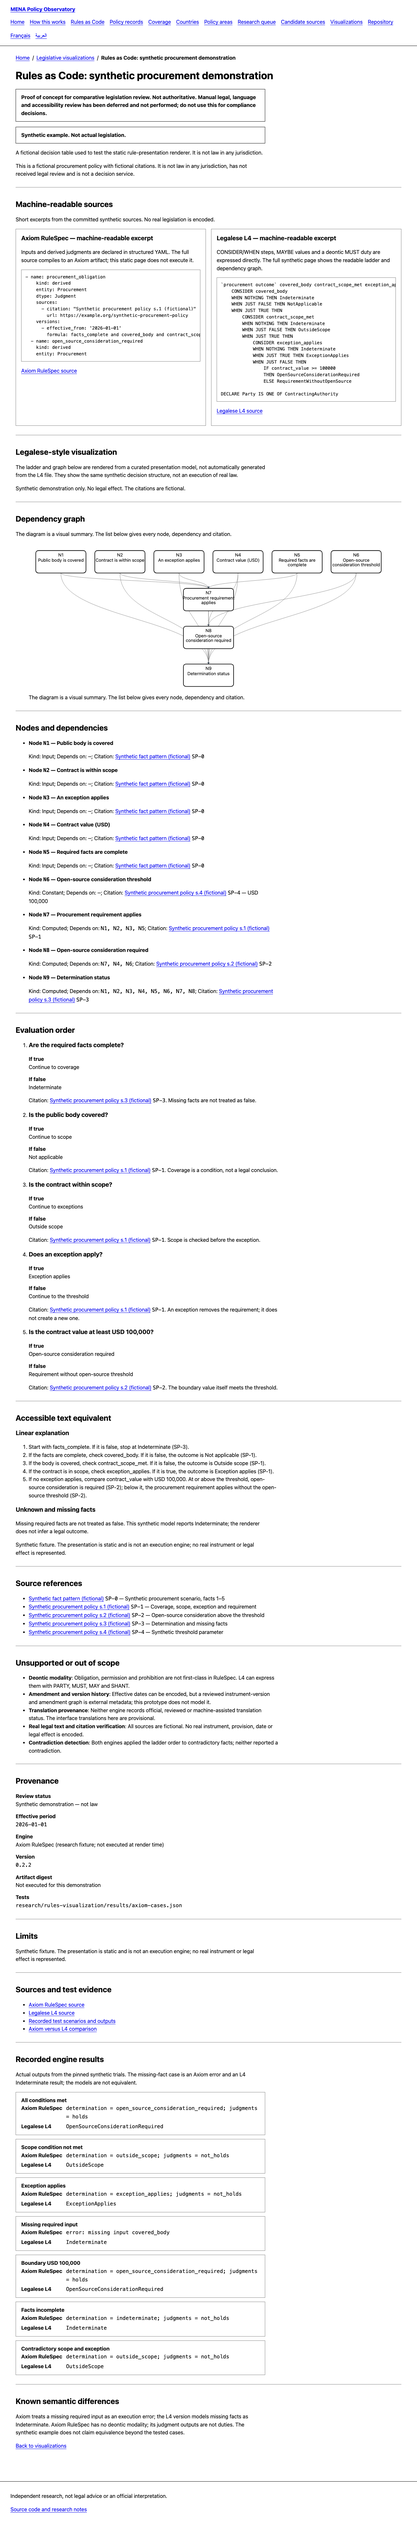
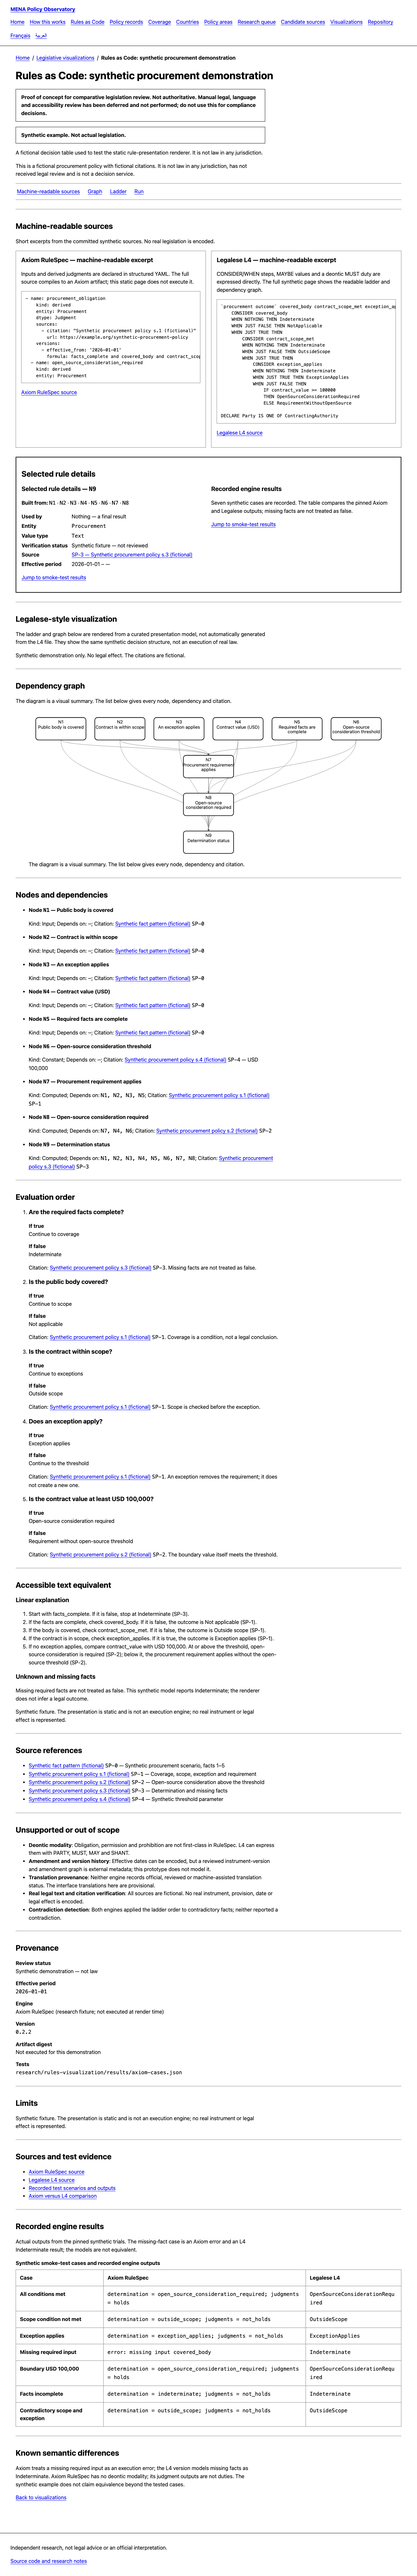
Align synthetic rule workspace with Axiom patterns
- Add a static workbench navigation strip for machine-readable sources,
  graph, ladder and run views.
- Add a selected-rule inspector for N9 with built-from/used-by, entity,
  value type, verification status, source and effective period.
- Replace the output list with a captioned smoke-test table comparing the
  pinned Axiom and Legalese results.
- Document the Axiom Graph/Read/Relationships/Run pattern as a design
  reference, not an integration or endorsement.
- Fix axe duplicate-region labels and 320 px inspector overflow discovered
  by the accessibility suite.
- Add inspector screenshot and update tests/docs.

Still synthetic only. No engine runs in the browser, no real instrument is
encoded, no legal effect is asserted.

Verification: 336 tests, 15 toolkit tests, 190 pages, 578 Playwright/axe
checks, registry/instruments/import/manifest current, git diff check clean.

diff --git a/dist/mena/ar/visualizations/synthetic.html b/dist/mena/ar/visualizations/synthetic.html
@@ -42,6 +42,7 @@
 <p class="notice"><strong>مثال اصطناعي. ليس تشريعًا حقيقيًا.</strong></p>
 <p>جدول قرار خيالي لاختبار عارض عرض القواعد الساكن. وهو ليس قانونًا في أي ولاية قضائية.</p>
 <p>هذه سياسة شراء خيالية باستشهادات خيالية. وليست قانونًا في أي ولاية، ولم تخضع لمراجعة قانونية، وليست خدمة قرار.</p>
+<nav class="workbench-nav" aria-label="أقسام مساحة القواعد"><ul><li><a href="#rules-machine-h">مصادر قابلة للقراءة الآلية</a></li><li><a href="#rule-graph-h">الرسم</a></li><li><a href="#rule-ladder-h">سلسلة القرار</a></li><li><a href="#synthetic-results-h">التشغيل</a></li></ul></nav>
 <section aria-labelledby="rules-machine-h"><h2 id="rules-machine-h">مصادر قابلة للقراءة الآلية</h2><p>مقتطفات قصيرة من المصادر الاصطناعية المحفوظة. لا يوجد تشريع حقيقي مرمّز.</p><div class="code-grid"><article class="code-card"><h3>أكسيوم — مقتطف قابل للقراءة الآلية</h3><p>تُعلن المدخلات والأحكام المشتقة في بيانات منظمة. يُجمّع المصدر الكامل إلى أثر لأكسيوم، ولا تنفذه هذه الصفحة الساكنة.</p><div class="code-scroll" role="region" aria-label="أكسيوم — مقتطف قابل للقراءة الآلية" tabindex="0"><pre><code lang="en" dir="ltr">- name: procurement_obligation
     kind: derived
     entity: Procurement
@@ -72,6 +73,7 @@
                 ELSE RequirementWithoutOpenSource
 
 DECLARE Party IS ONE OF ContractingAuthority</code></pre></div><p><a href="https://github.com/mgifford/mena-policy-observatory/blob/main/research/rules-visualization/l4/procurement.l4">مصدر قاعدة إل 4</a></p></article></div></section>
+<section class="rule-inspector" aria-labelledby="rule-inspector-h"><h2 id="rule-inspector-h">تفاصيل القاعدة المختارة</h2><div class="inspector-grid"><div><h3>تفاصيل القاعدة المختارة — <code lang="en" dir="ltr">N9</code></h3><p><strong>مبنية من:</strong> <code lang="en" dir="ltr">N1</code> · <code lang="en" dir="ltr">N2</code> · <code lang="en" dir="ltr">N3</code> · <code lang="en" dir="ltr">N4</code> · <code lang="en" dir="ltr">N5</code> · <code lang="en" dir="ltr">N6</code> · <code lang="en" dir="ltr">N7</code> · <code lang="en" dir="ltr">N8</code></p><dl><dt>تُستخدم بواسطة</dt><dd>لا شيء — نتيجة نهائية</dd><dt>الكيان</dt><dd><code lang="en" dir="ltr">Procurement</code></dd><dt>نوع القيمة</dt><dd><code lang="en" dir="ltr">Text</code></dd><dt>حالة التحقق</dt><dd>نموذج اصطناعي — لم تتم مراجعته</dd><dt>المصدر</dt><dd><a href="https://example.org/synthetic-procurement-policy#s3">SP-3 — سياسة الشراء الاصطناعية، المادة 3 (خيالية)</a></dd><dt>فترة النفاذ</dt><dd><span lang="en" dir="ltr">2026-01-01 – —</span></dd></dl><p><a href="#synthetic-results-h">انتقل إلى نتائج الاختبار</a></p></div><div><h3>نتائج المحركين المسجلة</h3><p>سُجلت سبع حالات اصطناعية. يقارن الجدول مخرجات أكسيوم وليغاليز المثبتة؛ ولا تُعامل الوقائع الناقصة على أنها خاطئة.</p><p><a href="#synthetic-results-h">انتقل إلى نتائج الاختبار</a></p></div></div></section>
 <section id="legalese-visualization" aria-labelledby="legalese-visual-h"><h2 id="legalese-visual-h">تصور على نمط ليغاليز</h2><p>تُعرض سلسلة القرار والرسم أدناه من نموذج عرض منظم، وليس من ملف ليغاليز آليًا. وهي تعرض بنية القرار الاصطناعية نفسها، لا تنفيذًا لقانون حقيقي.</p>
 <p class="disclaimer">عرض اصطناعي فقط. لا أثر قانوني. الاستشهادات خيالية.</p>
 
@@ -136,7 +138,7 @@ DECLARE Party IS ONE OF ContractingAuthority</code></pre></div><p><a href="https
   </section>
 </section>
 <section aria-labelledby="synthetic-evidence-h"><h2 id="synthetic-evidence-h">المصادر وأدلة الاختبار</h2><ul><li><a href="https://github.com/mgifford/mena-policy-observatory/blob/main/research/rules-visualization/axiom/procurement.rulespec.yaml">مصدر قاعدة أكسيوم</a></li><li><a href="https://github.com/mgifford/mena-policy-observatory/blob/main/research/rules-visualization/l4/procurement.l4">مصدر قاعدة إل 4</a></li><li><a href="https://github.com/mgifford/mena-policy-observatory/blob/main/research/rules-visualization/results/axiom-cases.json">سيناريوهات الاختبار والمخرجات المسجلة</a></li><li><a href="https://github.com/mgifford/mena-policy-observatory/blob/main/docs/RULES-ENGINE-COMPARISON.md">مقارنة أكسيوم وإل 4</a></li></ul></section>
-<section aria-labelledby="synthetic-results-h"><h2 id="synthetic-results-h">نتائج المحركين المسجلة</h2><p>مخرجات فعلية من التجارب الاصطناعية المثبتة. حالة الوقائع الناقصة خطأ في أكسيوم ونتيجة غير محددة في إل 4؛ والنموذجان غير متكافئين.</p><ul class="synthetic-results"><li><strong lang="en" dir="ltr">All conditions met</strong><dl><dt>قاعدة أكسيوم</dt><dd><code lang="en" dir="ltr">determination = open_source_consideration_required; judgments = holds</code></dd><dt>إل 4</dt><dd><code lang="en" dir="ltr">OpenSourceConsiderationRequired</code></dd></dl></li><li><strong lang="en" dir="ltr">Scope condition not met</strong><dl><dt>قاعدة أكسيوم</dt><dd><code lang="en" dir="ltr">determination = outside_scope; judgments = not_holds</code></dd><dt>إل 4</dt><dd><code lang="en" dir="ltr">OutsideScope</code></dd></dl></li><li><strong lang="en" dir="ltr">Exception applies</strong><dl><dt>قاعدة أكسيوم</dt><dd><code lang="en" dir="ltr">determination = exception_applies; judgments = not_holds</code></dd><dt>إل 4</dt><dd><code lang="en" dir="ltr">ExceptionApplies</code></dd></dl></li><li><strong lang="en" dir="ltr">Missing required input</strong><dl><dt>قاعدة أكسيوم</dt><dd><code lang="en" dir="ltr">error: missing input covered_body</code></dd><dt>إل 4</dt><dd><code lang="en" dir="ltr">Indeterminate</code></dd></dl></li><li><strong lang="en" dir="ltr">Boundary USD 100,000</strong><dl><dt>قاعدة أكسيوم</dt><dd><code lang="en" dir="ltr">determination = open_source_consideration_required; judgments = holds</code></dd><dt>إل 4</dt><dd><code lang="en" dir="ltr">OpenSourceConsiderationRequired</code></dd></dl></li><li><strong lang="en" dir="ltr">Facts incomplete</strong><dl><dt>قاعدة أكسيوم</dt><dd><code lang="en" dir="ltr">determination = indeterminate; judgments = not_holds</code></dd><dt>إل 4</dt><dd><code lang="en" dir="ltr">Indeterminate</code></dd></dl></li><li><strong lang="en" dir="ltr">Contradictory scope and exception</strong><dl><dt>قاعدة أكسيوم</dt><dd><code lang="en" dir="ltr">determination = outside_scope; judgments = not_holds</code></dd><dt>إل 4</dt><dd><code lang="en" dir="ltr">OutsideScope</code></dd></dl></li></ul></section>
+<section aria-labelledby="synthetic-results-h"><h2 id="synthetic-results-h">نتائج المحركين المسجلة</h2><p>مخرجات فعلية من التجارب الاصطناعية المثبتة. حالة الوقائع الناقصة خطأ في أكسيوم ونتيجة غير محددة في إل 4؛ والنموذجان غير متكافئين.</p><div class="table-scroll" role="region" aria-label="حالات اختبار اصطناعية ومخرجات المحركات المسجلة" tabindex="0"><table><caption>حالات اختبار اصطناعية ومخرجات المحركات المسجلة</caption><thead><tr><th scope="col">الحالة</th><th scope="col">قاعدة أكسيوم</th><th scope="col">إل 4</th></tr></thead><tbody><tr><th scope="row" lang="en" dir="ltr">All conditions met</th><td><code lang="en" dir="ltr">determination = open_source_consideration_required; judgments = holds</code></td><td><code lang="en" dir="ltr">OpenSourceConsiderationRequired</code></td></tr><tr><th scope="row" lang="en" dir="ltr">Scope condition not met</th><td><code lang="en" dir="ltr">determination = outside_scope; judgments = not_holds</code></td><td><code lang="en" dir="ltr">OutsideScope</code></td></tr><tr><th scope="row" lang="en" dir="ltr">Exception applies</th><td><code lang="en" dir="ltr">determination = exception_applies; judgments = not_holds</code></td><td><code lang="en" dir="ltr">ExceptionApplies</code></td></tr><tr><th scope="row" lang="en" dir="ltr">Missing required input</th><td><code lang="en" dir="ltr">error: missing input covered_body</code></td><td><code lang="en" dir="ltr">Indeterminate</code></td></tr><tr><th scope="row" lang="en" dir="ltr">Boundary USD 100,000</th><td><code lang="en" dir="ltr">determination = open_source_consideration_required; judgments = holds</code></td><td><code lang="en" dir="ltr">OpenSourceConsiderationRequired</code></td></tr><tr><th scope="row" lang="en" dir="ltr">Facts incomplete</th><td><code lang="en" dir="ltr">determination = indeterminate; judgments = not_holds</code></td><td><code lang="en" dir="ltr">Indeterminate</code></td></tr><tr><th scope="row" lang="en" dir="ltr">Contradictory scope and exception</th><td><code lang="en" dir="ltr">determination = outside_scope; judgments = not_holds</code></td><td><code lang="en" dir="ltr">OutsideScope</code></td></tr></tbody></table></div></section>
 <section aria-labelledby="synthetic-semantics-h"><h2 id="synthetic-semantics-h">الفروق الدلالية المعروفة</h2><p>يعامل أكسيوم المدخل المطلوب الناقص كخطأ تنفيذ؛ ويعرض إصدار إل 4 الوقائع الناقصة على أنها غير محددة. ولا توجد في قاعدة أكسيوم جهة إلزامية؛ وأحكامها ليست واجبات. ولا يدعي المثال الاصطناعي التكافؤ خارج الحالات المختبرة.</p></section>
 <p><a href="index.html">العودة إلى العروض</a></p>
 </main>

diff --git a/dist/mena/fr/visualizations/synthetic.html b/dist/mena/fr/visualizations/synthetic.html
@@ -42,6 +42,7 @@
 <p class="notice"><strong>Exemple synthétique. Ne constitue pas une législation réelle.</strong></p>
 <p>Une table de décision fictive servant à tester le moteur de présentation statique. Elle n&#x27;est du droit d&#x27;aucune juridiction.</p>
 <p>Il s&#x27;agit d&#x27;une politique de passation fictive avec des citations fictives. Elle n&#x27;est du droit d&#x27;aucune juridiction, n&#x27;a pas été révisée juridiquement et n&#x27;est pas un service de décision.</p>
+<nav class="workbench-nav" aria-label="Sections de l’atelier de règles"><ul><li><a href="#rules-machine-h">Sources lisibles par machine</a></li><li><a href="#rule-graph-h">Graphe</a></li><li><a href="#rule-ladder-h">Échelle</a></li><li><a href="#synthetic-results-h">Exécution</a></li></ul></nav>
 <section aria-labelledby="rules-machine-h"><h2 id="rules-machine-h">Sources lisibles par machine</h2><p>Courts extraits des sources synthétiques du dépôt. Aucune législation réelle n’est encodée.</p><div class="code-grid"><article class="code-card"><h3>Axiom RuleSpec — extrait lisible par machine</h3><p>Les entrées et jugements dérivés sont déclarés en YAML structuré. La source complète se compile en artefact Axiom ; cette page statique ne l&#x27;exécute pas.</p><div class="code-scroll" role="region" aria-label="Axiom RuleSpec — extrait lisible par machine" tabindex="0"><pre><code lang="en" dir="ltr">- name: procurement_obligation
     kind: derived
     entity: Procurement
@@ -72,6 +73,7 @@
                 ELSE RequirementWithoutOpenSource
 
 DECLARE Party IS ONE OF ContractingAuthority</code></pre></div><p><a href="https://github.com/mgifford/mena-policy-observatory/blob/main/research/rules-visualization/l4/procurement.l4">Source Legalese L4</a></p></article></div></section>
+<section class="rule-inspector" aria-labelledby="rule-inspector-h"><h2 id="rule-inspector-h">Détails de la règle sélectionnée</h2><div class="inspector-grid"><div><h3>Détails de la règle sélectionnée — <code lang="en" dir="ltr">N9</code></h3><p><strong>Construite à partir de:</strong> <code lang="en" dir="ltr">N1</code> · <code lang="en" dir="ltr">N2</code> · <code lang="en" dir="ltr">N3</code> · <code lang="en" dir="ltr">N4</code> · <code lang="en" dir="ltr">N5</code> · <code lang="en" dir="ltr">N6</code> · <code lang="en" dir="ltr">N7</code> · <code lang="en" dir="ltr">N8</code></p><dl><dt>Utilisée par</dt><dd>Rien — résultat final</dd><dt>Entité</dt><dd><code lang="en" dir="ltr">Procurement</code></dd><dt>Type de valeur</dt><dd><code lang="en" dir="ltr">Text</code></dd><dt>État de vérification</dt><dd>Fixture synthétique — non revue</dd><dt>Source</dt><dd><a href="https://example.org/synthetic-procurement-policy#s3">SP-3 — Politique de passation synthétique, art. 3 (fictif)</a></dd><dt>Période d’effet</dt><dd><span lang="en" dir="ltr">2026-01-01 – —</span></dd></dl><p><a href="#synthetic-results-h">Aller aux résultats des tests</a></p></div><div><h3>Résultats réels des moteurs</h3><p>Sept cas synthétiques sont consignés. Le tableau compare les sorties épinglées d’Axiom et de Legalese ; les faits manquants ne sont pas traités comme faux.</p><p><a href="#synthetic-results-h">Aller aux résultats des tests</a></p></div></div></section>
 <section id="legalese-visualization" aria-labelledby="legalese-visual-h"><h2 id="legalese-visual-h">Visualisation de style Legalese</h2><p>L&#x27;échelle et le graphe ci-dessous sont rendus depuis un modèle de présentation organisé, non générés automatiquement à partir du fichier L4. Ils montrent la même structure de décision synthétique, non une exécution du droit réel.</p>
 <p class="disclaimer">Démonstration synthétique uniquement. Sans effet juridique. Les citations sont fictives.</p>
 
@@ -136,7 +138,7 @@ DECLARE Party IS ONE OF ContractingAuthority</code></pre></div><p><a href="https
   </section>
 </section>
 <section aria-labelledby="synthetic-evidence-h"><h2 id="synthetic-evidence-h">Sources et preuves de test</h2><ul><li><a href="https://github.com/mgifford/mena-policy-observatory/blob/main/research/rules-visualization/axiom/procurement.rulespec.yaml">Source RuleSpec Axiom</a></li><li><a href="https://github.com/mgifford/mena-policy-observatory/blob/main/research/rules-visualization/l4/procurement.l4">Source Legalese L4</a></li><li><a href="https://github.com/mgifford/mena-policy-observatory/blob/main/research/rules-visualization/results/axiom-cases.json">Scénarios et sorties de test consignés</a></li><li><a href="https://github.com/mgifford/mena-policy-observatory/blob/main/docs/RULES-ENGINE-COMPARISON.md">Comparaison Axiom / L4</a></li></ul></section>
-<section aria-labelledby="synthetic-results-h"><h2 id="synthetic-results-h">Résultats réels des moteurs</h2><p>Sorties réelles des essais synthétiques épinglés. Le cas de fait manquant est une erreur Axiom et un résultat Indéterminé L4 ; les modèles ne sont pas équivalents.</p><ul class="synthetic-results"><li><strong lang="en" dir="ltr">All conditions met</strong><dl><dt>Axiom RuleSpec</dt><dd><code lang="en" dir="ltr">determination = open_source_consideration_required; judgments = holds</code></dd><dt>Legalese L4</dt><dd><code lang="en" dir="ltr">OpenSourceConsiderationRequired</code></dd></dl></li><li><strong lang="en" dir="ltr">Scope condition not met</strong><dl><dt>Axiom RuleSpec</dt><dd><code lang="en" dir="ltr">determination = outside_scope; judgments = not_holds</code></dd><dt>Legalese L4</dt><dd><code lang="en" dir="ltr">OutsideScope</code></dd></dl></li><li><strong lang="en" dir="ltr">Exception applies</strong><dl><dt>Axiom RuleSpec</dt><dd><code lang="en" dir="ltr">determination = exception_applies; judgments = not_holds</code></dd><dt>Legalese L4</dt><dd><code lang="en" dir="ltr">ExceptionApplies</code></dd></dl></li><li><strong lang="en" dir="ltr">Missing required input</strong><dl><dt>Axiom RuleSpec</dt><dd><code lang="en" dir="ltr">error: missing input covered_body</code></dd><dt>Legalese L4</dt><dd><code lang="en" dir="ltr">Indeterminate</code></dd></dl></li><li><strong lang="en" dir="ltr">Boundary USD 100,000</strong><dl><dt>Axiom RuleSpec</dt><dd><code lang="en" dir="ltr">determination = open_source_consideration_required; judgments = holds</code></dd><dt>Legalese L4</dt><dd><code lang="en" dir="ltr">OpenSourceConsiderationRequired</code></dd></dl></li><li><strong lang="en" dir="ltr">Facts incomplete</strong><dl><dt>Axiom RuleSpec</dt><dd><code lang="en" dir="ltr">determination = indeterminate; judgments = not_holds</code></dd><dt>Legalese L4</dt><dd><code lang="en" dir="ltr">Indeterminate</code></dd></dl></li><li><strong lang="en" dir="ltr">Contradictory scope and exception</strong><dl><dt>Axiom RuleSpec</dt><dd><code lang="en" dir="ltr">determination = outside_scope; judgments = not_holds</code></dd><dt>Legalese L4</dt><dd><code lang="en" dir="ltr">OutsideScope</code></dd></dl></li></ul></section>
+<section aria-labelledby="synthetic-results-h"><h2 id="synthetic-results-h">Résultats réels des moteurs</h2><p>Sorties réelles des essais synthétiques épinglés. Le cas de fait manquant est une erreur Axiom et un résultat Indéterminé L4 ; les modèles ne sont pas équivalents.</p><div class="table-scroll" role="region" aria-label="Cas de test synthétiques et sorties de moteur consignées" tabindex="0"><table><caption>Cas de test synthétiques et sorties de moteur consignées</caption><thead><tr><th scope="col">Cas</th><th scope="col">Axiom RuleSpec</th><th scope="col">Legalese L4</th></tr></thead><tbody><tr><th scope="row" lang="en" dir="ltr">All conditions met</th><td><code lang="en" dir="ltr">determination = open_source_consideration_required; judgments = holds</code></td><td><code lang="en" dir="ltr">OpenSourceConsiderationRequired</code></td></tr><tr><th scope="row" lang="en" dir="ltr">Scope condition not met</th><td><code lang="en" dir="ltr">determination = outside_scope; judgments = not_holds</code></td><td><code lang="en" dir="ltr">OutsideScope</code></td></tr><tr><th scope="row" lang="en" dir="ltr">Exception applies</th><td><code lang="en" dir="ltr">determination = exception_applies; judgments = not_holds</code></td><td><code lang="en" dir="ltr">ExceptionApplies</code></td></tr><tr><th scope="row" lang="en" dir="ltr">Missing required input</th><td><code lang="en" dir="ltr">error: missing input covered_body</code></td><td><code lang="en" dir="ltr">Indeterminate</code></td></tr><tr><th scope="row" lang="en" dir="ltr">Boundary USD 100,000</th><td><code lang="en" dir="ltr">determination = open_source_consideration_required; judgments = holds</code></td><td><code lang="en" dir="ltr">OpenSourceConsiderationRequired</code></td></tr><tr><th scope="row" lang="en" dir="ltr">Facts incomplete</th><td><code lang="en" dir="ltr">determination = indeterminate; judgments = not_holds</code></td><td><code lang="en" dir="ltr">Indeterminate</code></td></tr><tr><th scope="row" lang="en" dir="ltr">Contradictory scope and exception</th><td><code lang="en" dir="ltr">determination = outside_scope; judgments = not_holds</code></td><td><code lang="en" dir="ltr">OutsideScope</code></td></tr></tbody></table></div></section>
 <section aria-labelledby="synthetic-semantics-h"><h2 id="synthetic-semantics-h">Différences sémantiques connues</h2><p>Axiom traite une entrée requise manquante comme une erreur d&#x27;exécution ; la version L4 modélise les faits manquants comme Indéterminé. RuleSpec Axiom n&#x27;a pas de modalité déontique ; ses jugements ne sont pas des obligations. L&#x27;exemple synthétique ne revendique pas d&#x27;équivalence au-delà des cas testés.</p></section>
 <p><a href="index.html">Retour aux visualisations</a></p>
 </main>

diff --git a/dist/mena/en/visualizations/synthetic.html b/dist/mena/en/visualizations/synthetic.html
@@ -42,6 +42,7 @@
 <p class="notice"><strong>Synthetic example. Not actual legislation.</strong></p>
 <p>A fictional decision table used to test the static rule-presentation renderer. It is not law in any jurisdiction.</p>
 <p>This is a fictional procurement policy with fictional citations. It is not law in any jurisdiction, has not received legal review and is not a decision service.</p>
+<nav class="workbench-nav" aria-label="Rule workspace sections"><ul><li><a href="#rules-machine-h">Machine-readable sources</a></li><li><a href="#rule-graph-h">Graph</a></li><li><a href="#rule-ladder-h">Ladder</a></li><li><a href="#synthetic-results-h">Run</a></li></ul></nav>
 <section aria-labelledby="rules-machine-h"><h2 id="rules-machine-h">Machine-readable sources</h2><p>Short excerpts from the committed synthetic sources. No real legislation is encoded.</p><div class="code-grid"><article class="code-card"><h3>Axiom RuleSpec — machine-readable excerpt</h3><p>Inputs and derived judgments are declared in structured YAML. The full source compiles to an Axiom artifact; this static page does not execute it.</p><div class="code-scroll" role="region" aria-label="Axiom RuleSpec — machine-readable excerpt" tabindex="0"><pre><code lang="en" dir="ltr">- name: procurement_obligation
     kind: derived
     entity: Procurement
@@ -72,6 +73,7 @@
                 ELSE RequirementWithoutOpenSource
 
 DECLARE Party IS ONE OF ContractingAuthority</code></pre></div><p><a href="https://github.com/mgifford/mena-policy-observatory/blob/main/research/rules-visualization/l4/procurement.l4">Legalese L4 source</a></p></article></div></section>
+<section class="rule-inspector" aria-labelledby="rule-inspector-h"><h2 id="rule-inspector-h">Selected rule details</h2><div class="inspector-grid"><div><h3>Selected rule details — <code lang="en" dir="ltr">N9</code></h3><p><strong>Built from:</strong> <code lang="en" dir="ltr">N1</code> · <code lang="en" dir="ltr">N2</code> · <code lang="en" dir="ltr">N3</code> · <code lang="en" dir="ltr">N4</code> · <code lang="en" dir="ltr">N5</code> · <code lang="en" dir="ltr">N6</code> · <code lang="en" dir="ltr">N7</code> · <code lang="en" dir="ltr">N8</code></p><dl><dt>Used by</dt><dd>Nothing — a final result</dd><dt>Entity</dt><dd><code lang="en" dir="ltr">Procurement</code></dd><dt>Value type</dt><dd><code lang="en" dir="ltr">Text</code></dd><dt>Verification status</dt><dd>Synthetic fixture — not reviewed</dd><dt>Source</dt><dd><a href="https://example.org/synthetic-procurement-policy#s3">SP-3 — Synthetic procurement policy s.3 (fictional)</a></dd><dt>Effective period</dt><dd><span lang="en" dir="ltr">2026-01-01 – —</span></dd></dl><p><a href="#synthetic-results-h">Jump to smoke-test results</a></p></div><div><h3>Recorded engine results</h3><p>Seven synthetic cases are recorded. The table compares the pinned Axiom and Legalese outputs; missing facts are not treated as false.</p><p><a href="#synthetic-results-h">Jump to smoke-test results</a></p></div></div></section>
 <section id="legalese-visualization" aria-labelledby="legalese-visual-h"><h2 id="legalese-visual-h">Legalese-style visualization</h2><p>The ladder and graph below are rendered from a curated presentation model, not automatically generated from the L4 file. They show the same synthetic decision structure, not an execution of real law.</p>
 <p class="disclaimer">Synthetic demonstration only. No legal effect. The citations are fictional.</p>
 
@@ -136,7 +138,7 @@ DECLARE Party IS ONE OF ContractingAuthority</code></pre></div><p><a href="https
   </section>
 </section>
 <section aria-labelledby="synthetic-evidence-h"><h2 id="synthetic-evidence-h">Sources and test evidence</h2><ul><li><a href="https://github.com/mgifford/mena-policy-observatory/blob/main/research/rules-visualization/axiom/procurement.rulespec.yaml">Axiom RuleSpec source</a></li><li><a href="https://github.com/mgifford/mena-policy-observatory/blob/main/research/rules-visualization/l4/procurement.l4">Legalese L4 source</a></li><li><a href="https://github.com/mgifford/mena-policy-observatory/blob/main/research/rules-visualization/results/axiom-cases.json">Recorded test scenarios and outputs</a></li><li><a href="https://github.com/mgifford/mena-policy-observatory/blob/main/docs/RULES-ENGINE-COMPARISON.md">Axiom versus L4 comparison</a></li></ul></section>
-<section aria-labelledby="synthetic-results-h"><h2 id="synthetic-results-h">Recorded engine results</h2><p>Actual outputs from the pinned synthetic trials. The missing-fact case is an Axiom error and an L4 Indeterminate result; the models are not equivalent.</p><ul class="synthetic-results"><li><strong lang="en" dir="ltr">All conditions met</strong><dl><dt>Axiom RuleSpec</dt><dd><code lang="en" dir="ltr">determination = open_source_consideration_required; judgments = holds</code></dd><dt>Legalese L4</dt><dd><code lang="en" dir="ltr">OpenSourceConsiderationRequired</code></dd></dl></li><li><strong lang="en" dir="ltr">Scope condition not met</strong><dl><dt>Axiom RuleSpec</dt><dd><code lang="en" dir="ltr">determination = outside_scope; judgments = not_holds</code></dd><dt>Legalese L4</dt><dd><code lang="en" dir="ltr">OutsideScope</code></dd></dl></li><li><strong lang="en" dir="ltr">Exception applies</strong><dl><dt>Axiom RuleSpec</dt><dd><code lang="en" dir="ltr">determination = exception_applies; judgments = not_holds</code></dd><dt>Legalese L4</dt><dd><code lang="en" dir="ltr">ExceptionApplies</code></dd></dl></li><li><strong lang="en" dir="ltr">Missing required input</strong><dl><dt>Axiom RuleSpec</dt><dd><code lang="en" dir="ltr">error: missing input covered_body</code></dd><dt>Legalese L4</dt><dd><code lang="en" dir="ltr">Indeterminate</code></dd></dl></li><li><strong lang="en" dir="ltr">Boundary USD 100,000</strong><dl><dt>Axiom RuleSpec</dt><dd><code lang="en" dir="ltr">determination = open_source_consideration_required; judgments = holds</code></dd><dt>Legalese L4</dt><dd><code lang="en" dir="ltr">OpenSourceConsiderationRequired</code></dd></dl></li><li><strong lang="en" dir="ltr">Facts incomplete</strong><dl><dt>Axiom RuleSpec</dt><dd><code lang="en" dir="ltr">determination = indeterminate; judgments = not_holds</code></dd><dt>Legalese L4</dt><dd><code lang="en" dir="ltr">Indeterminate</code></dd></dl></li><li><strong lang="en" dir="ltr">Contradictory scope and exception</strong><dl><dt>Axiom RuleSpec</dt><dd><code lang="en" dir="ltr">determination = outside_scope; judgments = not_holds</code></dd><dt>Legalese L4</dt><dd><code lang="en" dir="ltr">OutsideScope</code></dd></dl></li></ul></section>
+<section aria-labelledby="synthetic-results-h"><h2 id="synthetic-results-h">Recorded engine results</h2><p>Actual outputs from the pinned synthetic trials. The missing-fact case is an Axiom error and an L4 Indeterminate result; the models are not equivalent.</p><div class="table-scroll" role="region" aria-label="Synthetic smoke-test cases and recorded engine outputs" tabindex="0"><table><caption>Synthetic smoke-test cases and recorded engine outputs</caption><thead><tr><th scope="col">Case</th><th scope="col">Axiom RuleSpec</th><th scope="col">Legalese L4</th></tr></thead><tbody><tr><th scope="row" lang="en" dir="ltr">All conditions met</th><td><code lang="en" dir="ltr">determination = open_source_consideration_required; judgments = holds</code></td><td><code lang="en" dir="ltr">OpenSourceConsiderationRequired</code></td></tr><tr><th scope="row" lang="en" dir="ltr">Scope condition not met</th><td><code lang="en" dir="ltr">determination = outside_scope; judgments = not_holds</code></td><td><code lang="en" dir="ltr">OutsideScope</code></td></tr><tr><th scope="row" lang="en" dir="ltr">Exception applies</th><td><code lang="en" dir="ltr">determination = exception_applies; judgments = not_holds</code></td><td><code lang="en" dir="ltr">ExceptionApplies</code></td></tr><tr><th scope="row" lang="en" dir="ltr">Missing required input</th><td><code lang="en" dir="ltr">error: missing input covered_body</code></td><td><code lang="en" dir="ltr">Indeterminate</code></td></tr><tr><th scope="row" lang="en" dir="ltr">Boundary USD 100,000</th><td><code lang="en" dir="ltr">determination = open_source_consideration_required; judgments = holds</code></td><td><code lang="en" dir="ltr">OpenSourceConsiderationRequired</code></td></tr><tr><th scope="row" lang="en" dir="ltr">Facts incomplete</th><td><code lang="en" dir="ltr">determination = indeterminate; judgments = not_holds</code></td><td><code lang="en" dir="ltr">Indeterminate</code></td></tr><tr><th scope="row" lang="en" dir="ltr">Contradictory scope and exception</th><td><code lang="en" dir="ltr">determination = outside_scope; judgments = not_holds</code></td><td><code lang="en" dir="ltr">OutsideScope</code></td></tr></tbody></table></div></section>
 <section aria-labelledby="synthetic-semantics-h"><h2 id="synthetic-semantics-h">Known semantic differences</h2><p>Axiom treats a missing required input as an execution error; the L4 version models missing facts as Indeterminate. Axiom RuleSpec has no deontic modality; its judgment outputs are not duties. The synthetic example does not claim equivalence beyond the tested cases.</p></section>
 <p><a href="index.html">Back to visualizations</a></p>
 </main>

diff --git a/dist/mena/assets/site.css b/dist/mena/assets/site.css
@@ -105,3 +105,14 @@ section.synthetic-card{border:3px solid CanvasText;padding:1rem;margin-block-sta
 .language-grid{display:flex;flex-wrap:wrap;gap:.75rem;list-style:none;margin:1rem 0;padding:0}
 .language-grid a{display:inline-block;border:1px solid CanvasText;padding:.5rem .9rem;color:LinkText;text-decoration:none}
 @media(max-width:40rem){.start-paths{grid-template-columns:1fr}}
+/* Rule workspace */
+.workbench-nav ul{display:flex;flex-wrap:wrap;gap:.4rem 1rem;list-style:none;margin:1rem 0;padding:0;border-block:1px solid GrayText;padding-block:.6rem}
+.workbench-nav a{display:inline-block;padding:.15rem .25rem}
+.workbench-nav a:focus-visible{outline:3px solid Highlight;outline-offset:3px}
+.rule-inspector{border:2px solid CanvasText;padding:1rem;margin-block-start:1.75rem}
+.inspector-grid{display:grid;grid-template-columns:repeat(auto-fit,minmax(18rem,1fr));gap:1rem}
+.inspector-grid h3{margin-block-start:0}
+.inspector-grid dl{display:grid;grid-template-columns:max-content minmax(0,1fr);gap:.25rem .75rem}
+.inspector-grid dt{font-weight:700;margin-block-start:0}
+@media(max-width:40rem){.inspector-grid dl{grid-template-columns:1fr}}
+@media(max-width:40rem){.inspector-grid{grid-template-columns:1fr}}

diff --git a/framework/site.css b/framework/site.css
@@ -105,3 +105,14 @@ section.synthetic-card{border:3px solid CanvasText;padding:1rem;margin-block-sta
 .language-grid{display:flex;flex-wrap:wrap;gap:.75rem;list-style:none;margin:1rem 0;padding:0}
 .language-grid a{display:inline-block;border:1px solid CanvasText;padding:.5rem .9rem;color:LinkText;text-decoration:none}
 @media(max-width:40rem){.start-paths{grid-template-columns:1fr}}
+/* Rule workspace */
+.workbench-nav ul{display:flex;flex-wrap:wrap;gap:.4rem 1rem;list-style:none;margin:1rem 0;padding:0;border-block:1px solid GrayText;padding-block:.6rem}
+.workbench-nav a{display:inline-block;padding:.15rem .25rem}
+.workbench-nav a:focus-visible{outline:3px solid Highlight;outline-offset:3px}
+.rule-inspector{border:2px solid CanvasText;padding:1rem;margin-block-start:1.75rem}
+.inspector-grid{display:grid;grid-template-columns:repeat(auto-fit,minmax(18rem,1fr));gap:1rem}
+.inspector-grid h3{margin-block-start:0}
+.inspector-grid dl{display:grid;grid-template-columns:max-content minmax(0,1fr);gap:.25rem .75rem}
+.inspector-grid dt{font-weight:700;margin-block-start:0}
+@media(max-width:40rem){.inspector-grid dl{grid-template-columns:1fr}}
+@media(max-width:40rem){.inspector-grid{grid-template-columns:1fr}}

diff --git a/framework/research_visualization.py b/framework/research_visualization.py
@@ -601,6 +601,13 @@ def index_body(strings: dict, lang: str, selected: list[tuple[dict, dict]]) -> s
 def synthetic_page_body(strings: dict, lang: str, fixture: dict, catalogues: dict) -> str:
     fragment = render_fragment(fixture, lang, catalogues[lang])
     excerpts = code_excerpts()
+    output_source = next(
+        (item for item in fixture.get('sources', []) if item.get('id') == 'SP-3'),
+        {'label': {}, 'url': 'https://example.org/synthetic-procurement-policy#s3'},
+    )
+    output_label = output_source.get('label', {})
+    output_label = output_label.get(lang) or output_label.get('en') or 'SP-3'
+    output_url = output_source.get('url', 'https://example.org/synthetic-procurement-policy#s3')
     axiom_url = ('https://github.com/mgifford/mena-policy-observatory/blob/main/'
                  'research/rules-visualization/axiom/procurement.rulespec.yaml')
     l4_url = ('https://github.com/mgifford/mena-policy-observatory/blob/main/'
@@ -621,6 +628,12 @@ def synthetic_page_body(strings: dict, lang: str, fixture: dict, catalogues: dic
         f'<p class="notice"><strong>{esc(strings["visualizations.synthetic_notice"])}</strong></p>',
         f'<p>{esc(fixture["summary"][lang])}</p>',
         f'<p>{esc(strings["visualizations.synthetic_demo_notice"])}</p>',
+        f'<nav class="workbench-nav" aria-label="{esc(strings["visualizations.workbench_label"])}"><ul>'
+        f'<li><a href="#rules-machine-h">{esc(strings["visualizations.workbench_machine"])}</a></li>'
+        f'<li><a href="#rule-graph-h">{esc(strings["visualizations.workbench_graph"])}</a></li>'
+        f'<li><a href="#rule-ladder-h">{esc(strings["visualizations.workbench_ladder"])}</a></li>'
+        f'<li><a href="#synthetic-results-h">{esc(strings["visualizations.workbench_run"])}</a></li>'
+        f'</ul></nav>',
         f'<section aria-labelledby="rules-machine-h"><h2 id="rules-machine-h">{esc(strings["visualizations.rules_machine_heading"])}</h2>'
         f'<p>{esc(strings["visualizations.code_excerpt_note"])}</p><div class="code-grid">'
         + code_card('visualizations.axiom_code_heading', 'visualizations.axiom_code_note',
@@ -628,6 +641,20 @@ def synthetic_page_body(strings: dict, lang: str, fixture: dict, catalogues: dic
         + code_card('visualizations.l4_code_heading', 'visualizations.l4_code_note',
                     excerpts['l4'], l4_url, 'visualizations.synthetic_source_l4')
         + '</div></section>',
+        f'<section class="rule-inspector" aria-labelledby="rule-inspector-h">'
+        f'<h2 id="rule-inspector-h">{esc(strings["visualizations.rule_inspector_heading"])}</h2>'
+        f'<div class="inspector-grid"><div><h3>{esc(strings["visualizations.rule_inspector_heading"])} — <code lang="en" dir="ltr">N9</code></h3>'
+        f'<p><strong>{esc(strings["visualizations.built_from"])}:</strong> '
+        f'{(" " + "·" + " ").join("<code lang=\"en\" dir=\"ltr\">" + esc(item) + "</code>" for item in ["N1","N2","N3","N4","N5","N6","N7","N8"])}</p>'
+        f'<dl><dt>{esc(strings["visualizations.used_by"])}</dt><dd>{esc(strings["visualizations.final_result"])}</dd>'
+        f'<dt>{esc(strings["visualizations.entity"])}</dt><dd><code lang="en" dir="ltr">Procurement</code></dd>'
+        f'<dt>{esc(strings["visualizations.value_type"])}</dt><dd><code lang="en" dir="ltr">Text</code></dd>'
+        f'<dt>{esc(strings["visualizations.verification_status"])}</dt><dd>{esc(strings["visualizations.synthetic_not_reviewed"])}</dd>'
+        f'<dt>{esc(strings["visualizations.source"])}</dt><dd><a href="{esc(output_url)}">SP-3 — {esc(output_label)}</a></dd>'
+        f'<dt>{esc(strings["visualizations.effective_period"])}</dt><dd><span lang="en" dir="ltr">2026-01-01 – —</span></dd></dl>'
+        f'<p><a href="#synthetic-results-h">{esc(strings["visualizations.jump_run"])}</a></p></div>'
+        f'<div><h3>{esc(strings["visualizations.synthetic_results_heading"])}</h3>'
+        f'<p>{esc(strings["visualizations.smoke_summary"])}</p><p><a href="#synthetic-results-h">{esc(strings["visualizations.jump_run"])}</a></p></div></div></section>',
         f'<section id="legalese-visualization" aria-labelledby="legalese-visual-h">'
         f'<h2 id="legalese-visual-h">{esc(strings["visualizations.legalese_visual_heading"])}</h2>'
         f'<p>{esc(strings["visualizations.legalese_visual_note"])}</p>',
@@ -642,9 +669,14 @@ def synthetic_page_body(strings: dict, lang: str, fixture: dict, catalogues: dic
         f'</ul></section>',
         f'<section aria-labelledby="synthetic-results-h"><h2 id="synthetic-results-h">{esc(strings["visualizations.synthetic_results_heading"])}</h2>'
         f'<p>{esc(strings["visualizations.synthetic_results_note"])}</p>'
-        f'<ul class="synthetic-results">'
-        + ''.join(_case_item(strings, case) for case in SYNTHETIC_CASES)
-        + '</ul></section>',
+        f'<div class="table-scroll" role="region" aria-label="{esc(strings["visualizations.smoke_caption"])}" tabindex="0">'
+        f'<table><caption>{esc(strings["visualizations.smoke_caption"])}</caption><thead><tr>'
+        f'<th scope="col">{esc(strings["visualizations.synthetic_case"])}</th>'
+        f'<th scope="col">{esc(strings["visualizations.synthetic_axiom"])}</th>'
+        f'<th scope="col">{esc(strings["visualizations.synthetic_l4"])}</th>'
+        f'</tr></thead><tbody>'
+        + ''.join(_case_row(case) for case in SYNTHETIC_CASES)
+        + '</tbody></table></div></section>',
         f'<section aria-labelledby="synthetic-semantics-h"><h2 id="synthetic-semantics-h">{esc(strings["visualizations.synthetic_semantics"])}</h2>'
         f'<p>{esc(strings["visualizations.synthetic_semantics_text"])}</p></section>',
         f'<p><a href="index.html">{esc(strings["visualizations.back"])}</a></p>',
@@ -662,10 +694,8 @@ SYNTHETIC_CASES = (
 )
 
 
-def _case_item(strings: dict, case: tuple[str, str, str]) -> str:
+def _case_row(case: tuple[str, str, str]) -> str:
     label, axiom, l4 = case
-    return (f'<li><strong lang="en" dir="ltr">{esc(label)}</strong>'
-            f'<dl><dt>{esc(strings["visualizations.synthetic_axiom"])}</dt>'
-            f'<dd><code lang="en" dir="ltr">{esc(axiom)}</code></dd>'
-            f'<dt>{esc(strings["visualizations.synthetic_l4"])}</dt>'
-            f'<dd><code lang="en" dir="ltr">{esc(l4)}</code></dd></dl></li>')
+    return (f'<tr><th scope="row" lang="en" dir="ltr">{esc(label)}</th>'
+            f'<td><code lang="en" dir="ltr">{esc(axiom)}</code></td>'
+            f'<td><code lang="en" dir="ltr">{esc(l4)}</code></td></tr>')

diff --git a/tests/test_research_visualization.py b/tests/test_research_visualization.py
@@ -218,6 +218,11 @@ class SourceStructureRenderTests(unittest.TestCase):
         self.assertIn(self.catalogues['en']['visualizations.synthetic_semantics_text'], body)
         self.assertIn(self.catalogues['en']['visualizations.rules_machine_heading'], body)
         self.assertIn(self.catalogues['en']['visualizations.legalese_visual_heading'], body)
+        self.assertIn(self.catalogues['en']['visualizations.rule_inspector_heading'], body)
+        self.assertIn(self.catalogues['en']['visualizations.workbench_label'], body)
+        self.assertIn(self.catalogues['en']['visualizations.smoke_caption'], body)
+        self.assertIn('id="rule-inspector-h"', body)
+        self.assertIn('<caption>', body)
         self.assertIn('procurement_obligation', body)
         self.assertIn('procurement outcome', body)
         self.assertIn('Dependency graph', body)

diff --git a/docs/RULES-ENGINE-COMPARISON.md b/docs/RULES-ENGINE-COMPARISON.md
@@ -56,6 +56,19 @@ Exact source links are in the source register at the end. Status vocabulary for 
 | 14. Testability and reproducibility | **S** — pinned source build, Cargo tests, compiled artifact, actual requests/responses committed. | **S** — `l4 check`, JSON run envelope and DOT trace committed; release binary provenance recorded. | **P** — tests exist, but the engine wrapper targets an older API and the app was not run. |
 | 15. Compatibility with research identifiers | **S** — durable IDs such as `xx:policies/procurement#procurement_obligation`. | **P** — names and `@ref` citations; no observatory instrument/source/version IDs. | **P** — parser emits its own Model JSON; no observatory IDs. |
 
+## Public Axiom workspace pattern
+
+The public [Axiom rule graph workspace](https://axiom.org/app?compose=us-wi%3Apolicies%2Fincome_tax%2F2026_form1es_estimated_schedule) organizes a rule around four views — **Graph**, **Read**, **Relationships** and **Run** — with a selected-rule inspector showing built-from/used-by links, entity, value type, verification status, source and effective dates.
+
+The synthetic page now adopts that information architecture as static HTML:
+
+- a workbench navigation strip with the same four entry points;
+- a selected-output inspector for `N9` with built-from, used-by, entity, value type, verification status, source and effective period;
+- the existing dependency graph and evaluation ladder;
+- a table of recorded smoke-test cases comparing Axiom and Legalese outputs.
+
+This is a design alignment, not an Axiom deployment. It does not copy Axiom's application code, does not run an engine in the browser, and does not imply integration or endorsement.
+
 ## Existing visualization approaches
 
 ### A. Axiom RuleSpec Graph Viewer
@@ -289,6 +302,7 @@ That is intentionally smaller than embedding either engine. It tests the durable
 - S4. Axiom WASM crate (documented, not tested): <https://github.com/TheAxiomFoundation/axiom-rules-engine/blob/d41d29d251b6eb0de6542f5899a93d317f3f0dcf/wasm/README.md>
 - S5. Axiom RuleSpec Graph Viewer (API/proxy, no bundled graph artifact): <https://github.com/TheAxiomFoundation/rulespec-graph-viewer/blob/880af3d8234f1eb8704bcab7f3e2fc8494556fba/README.md>
 - S6. Axiom licence (MIT): <https://github.com/TheAxiomFoundation/axiom-rules-engine/blob/d41d29d251b6eb0de6542f5899a93d317f3f0dcf/LICENSE>
+- S6b. Axiom public rule graph workspace (Graph/Read/Relationships/Run pattern): <https://axiom.org/app?compose=us-wi%3Apolicies%2Fincome_tax%2F2026_form1es_estimated_schedule>
 
 **Legalese L4**
 

diff --git a/README.md b/README.md
@@ -73,7 +73,7 @@ A navy-and-amber **M** favicon identifies the project in browser tabs. It is com
 
 ## Rules as Code
 
-The homepage now includes a visible **Rules as Code** section with short, exact excerpts from the synthetic Axiom RuleSpec and Legalese L4 sources, plus a three-step Legalese-style evaluation ladder. The full synthetic page adds the machine-readable sources, dependency graph, complete ladder, accessible text equivalent and recorded engine outputs. The navigation exposes **Rules as Code** on every page.
+The homepage now includes a visible **Rules as Code** section with short, exact excerpts from the synthetic Axiom RuleSpec and Legalese L4 sources, plus a three-step Legalese-style evaluation ladder. The full synthetic page follows the public Axiom workspace pattern — machine-readable sources, selected-rule inspector, dependency graph, ladder, smoke-test table and provenance — while remaining a static, synthetic example. The navigation exposes **Rules as Code** on every page.
 
 This is still synthetic only. No real instrument has an approved executable encoding, Axiom has not been selected as a permanent engine, and Axiom/L4 semantics are not interchangeable. See [docs/RULES-ENGINE-COMPARISON.md](docs/RULES-ENGINE-COMPARISON.md).
 

diff --git a/docs/VISUALIZATION-MILESTONE.md b/docs/VISUALIZATION-MILESTONE.md
@@ -98,6 +98,7 @@ Screenshots (1280 px browser width, full page):
 - [Synthetic demonstration](visualizations/synthetic.png)
 - [Rules as Code homepage section](rules-as-code-home.png)
 - [Legalese-style dependency graph](legalese-graph.png)
+- [Selected-rule inspector](rule-inspector.png)
 - [Full synthetic Rules as Code page](rules-as-code-synthetic.png)
 
 Automated verification at the time of this work:
